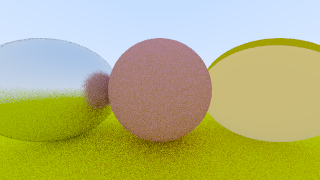
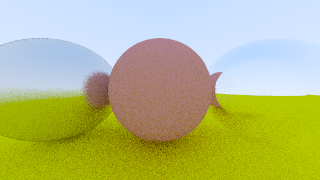
glass material

diff --git a/src/renderer.rs b/src/renderer.rs
@@ -214,6 +214,13 @@ impl<'a> Renderer<'a> {
     }
 }
 
+fn reflectance(cosine: f32, ref_idx: f32) -> f32 {
+    // Use Schlick's approximation for reflectance.
+    let mut r0 = (1. - ref_idx) / (1. + ref_idx);
+    r0 = r0 * r0;
+    r0 + (1. - r0) * (1. - cosine).powf(5.0)
+}
+
 #[derive(Clone, Copy)]
 pub enum MaterialKind {
     Lambertian,
@@ -246,10 +253,19 @@ impl MaterialKind {
                 } else {
                     *index_of_refraction
                 };
-                let refracted = ray_in
-                    .direction
-                    .refract(hit_record.normal, refraction_ratio);
-                (true, refracted)
+                let cos_theta = dot(-ray_in.direction, hit_record.normal).min(1.0);
+                let sin_theta = (1.0 - cos_theta * cos_theta).sqrt();
+                let direction = if refraction_ratio * sin_theta > 1.0
+                    || reflectance(cos_theta, refraction_ratio) > rng.gen()
+                {
+                    ray_in.direction.reflect(hit_record.normal)
+                } else {
+                    ray_in
+                        .direction
+                        .refract(hit_record.normal, refraction_ratio)
+                };
+
+                (true, direction.normalize())
             }
         };
         (scattered, Ray::new(hit_record.point, dir))

diff --git a/src/main.rs b/src/main.rs
@@ -42,12 +42,12 @@ fn main() {
         },
     );
     scene.add(
-        Box::new(Sphere::new(vec3(1.0, 0.0, -1.0), 0.5)),
+        Box::new(Sphere::new(vec3(1.0, 0.0, -1.0), -0.5)),
         Material {
             kind: MaterialKind::Dielectric {
                 index_of_refraction: 1.5,
             },
-            color: rgba(0.8, 0.6, 0.2, 1.0),
+            color: rgba(1., 1., 1., 1.0),
         },
     );
     // scene.add(
